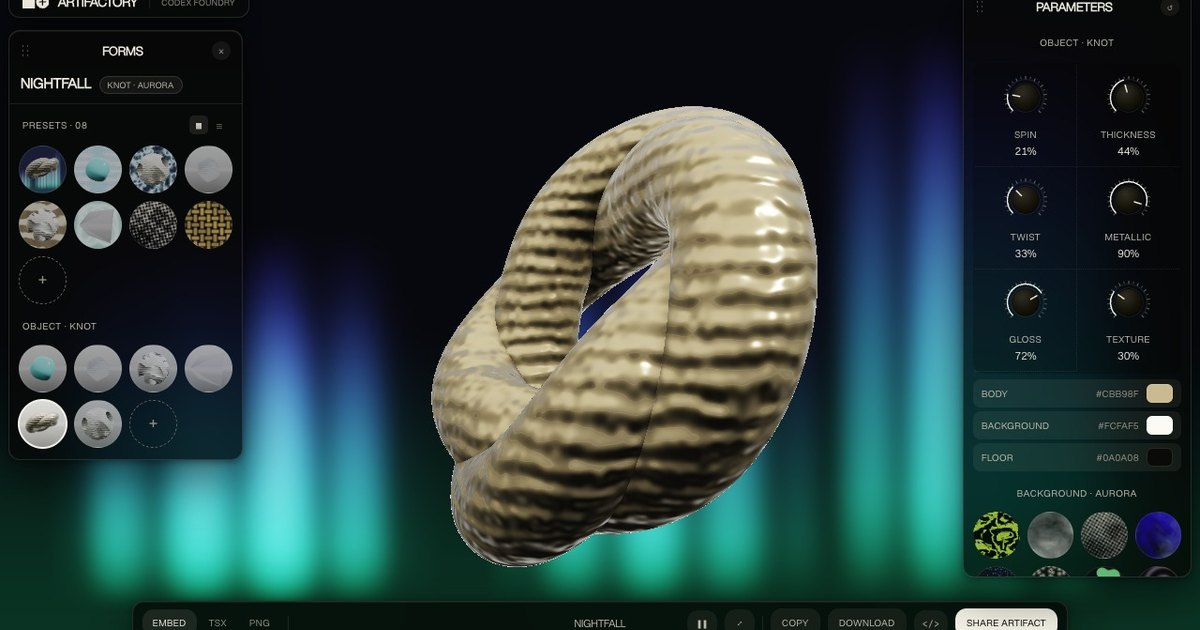
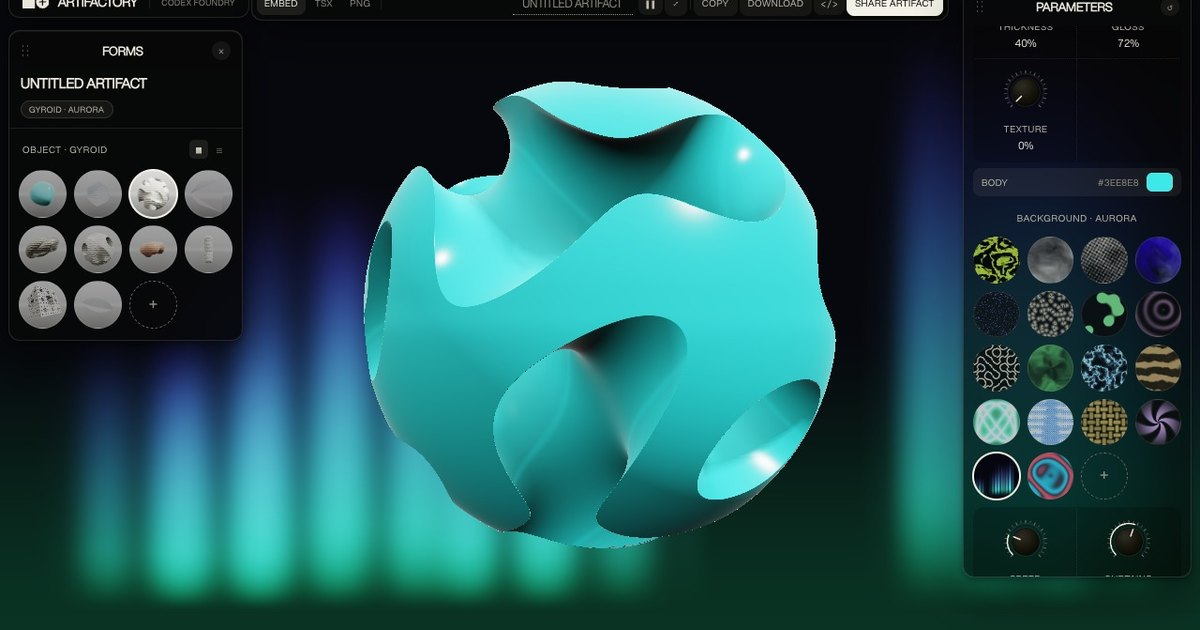
Dark-mode mark; are.na link; Artifactory default -> Gyroid on Aurora

diff --git a/index.html b/index.html
@@ -5,8 +5,10 @@
 <meta name="viewport" content="width=device-width, initial-scale=1" />
 <title>Renaise</title>
 <link rel="icon" href="/favicon.ico" sizes="any" />
-<link rel="icon" type="image/png" sizes="32x32" href="/assets/icon-32.png" />
-<link rel="icon" type="image/png" sizes="16x16" href="/assets/icon-16.png" />
+<link rel="icon" type="image/png" sizes="32x32" href="/assets/icon-32.png" media="(prefers-color-scheme:light)" />
+<link rel="icon" type="image/png" sizes="16x16" href="/assets/icon-16.png" media="(prefers-color-scheme:light)" />
+<link rel="icon" type="image/png" sizes="32x32" href="/assets/icon-dark-32.png" media="(prefers-color-scheme:dark)" />
+<link rel="icon" type="image/png" sizes="16x16" href="/assets/icon-dark-16.png" media="(prefers-color-scheme:dark)" />
 <link rel="apple-touch-icon" href="/assets/apple-touch-icon.png" />
 <meta name="theme-color" content="#ebebeb" />
 <meta name="description" content="Renaise is a brand + product designer in NYC, working across culture + venture: consumer media, creative tools, and deep tech." />
@@ -140,8 +142,12 @@
     border-right:1px dotted var(--line);padding:1.5rem 1.4rem;
     display:flex;flex-direction:column;gap:1.9rem;z-index:10;}
   .side .brand{display:flex;align-items:center;gap:.6rem;text-decoration:none;}
-  /* the mark is the wordmark now — served from the 192px asset so it stays crisp */
+  /* the mark is the wordmark now — served from the 192px asset so it stays crisp.
+     Two artworks, not one tinted: the dark mark is its own file. */
   .side .brand img{height:52px;width:52px;}
+  .side .brand .mk-d{display:none;}
+  :root[data-theme="dark"] .side .brand .mk-l{display:none;}
+  :root[data-theme="dark"] .side .brand .mk-d{display:block;}
   /* nav and the bottom links are one treatment: plain mono, no rules, same rhythm */
   .toc,.acts{display:flex;flex-direction:column;gap:.5rem;}
   .acts{margin-top:auto;}
@@ -221,7 +227,7 @@ document.documentElement.className+=' js';
   <a id="top"></a>
   <div class="app">
     <aside class="side">
-      <a class="brand" href="#top"><img src="/assets/icon-192.png" alt="Renaise" width="52" height="52" /></a>
+      <a class="brand" href="#top"><img class="mk-l" src="/assets/icon-192.png" alt="Renaise" width="52" height="52" /><img class="mk-d" src="/assets/icon-dark-192.png" alt="Renaise" width="52" height="52" /></a>
       <nav class="toc">
         <a href="#work">Work</a>
         <a href="#about">About</a>
@@ -233,6 +239,7 @@ document.documentElement.className+=' js';
       <div class="acts">
         <a href="mailto:[email redacted]">Email ↗</a>
         <a href="https://www.linkedin.com/in/renaisekim" target="_blank" rel="noopener">LinkedIn ↗</a>
+        <a href="https://www.are.na/renaise/channels" target="_blank" rel="noopener">Are.na ↗</a>
         <div class="foot"><div class="clock" id="clock"></div><button class="tsw" id="tsw" type="button" role="switch" aria-checked="false" aria-label="Dark mode"><span class="track"><span class="knob"></span></span><span class="lbl">Light</span></button></div>
       </div>
     </aside>